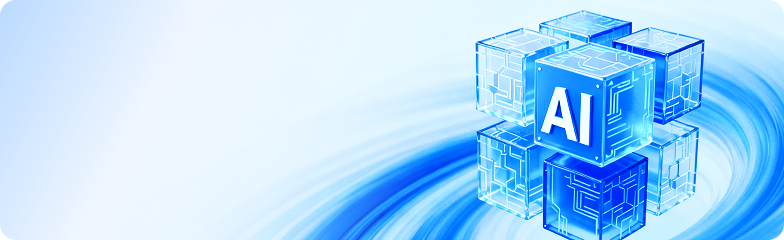
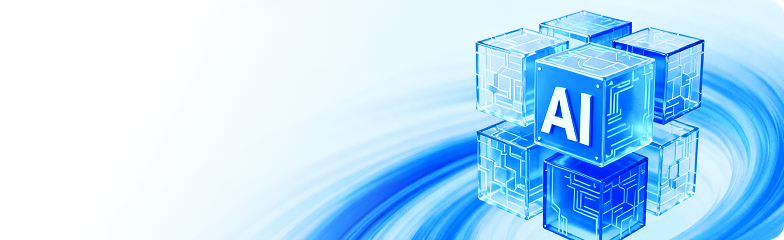
S25029301301-3113 应用导入导出图片替换

Changed region(s): [[0.0, 0.0, 0.2143, 1.0]]

diff --git a/apps/app-builder/src/pages/Setting/pages/Application/index.tsx b/apps/app-builder/src/pages/Setting/pages/Application/index.tsx
@@ -278,7 +278,7 @@ const AppManagement: React.FC = () => {
                 <div
                   className={styles.aiCreate}
                   style={{
-                    backgroundImage: `linear-gradient(99.09deg, #BADAFF 0%, #EFF6FF 22.12%, rgba(239, 246, 255, 0) 56.73%, rgba(239, 246, 255, 0) 87.76%),url(${aiPng})`
+                    backgroundImage: `linear-gradient(99.09deg, #BADAFF 0%, #EFF6FF 42.07%, rgba(239, 246, 255, 0) 56.73%, rgba(239, 246, 255, 0) 87.76%),url(${aiPng})`
                   }}
                   onClick={() => navigate('/aigen/chat')}
                 >
